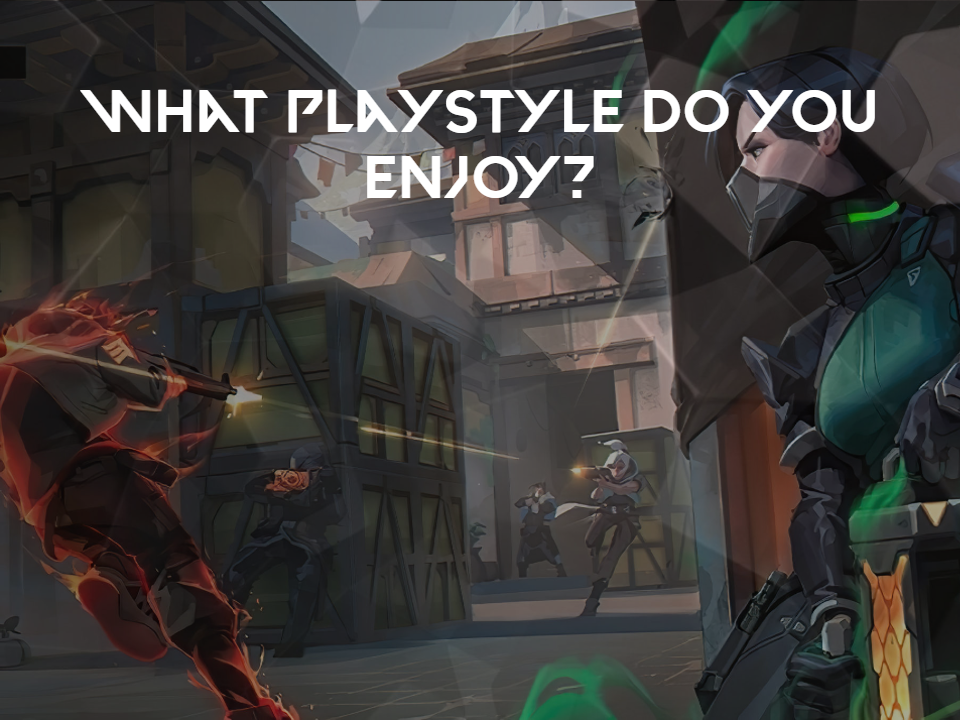
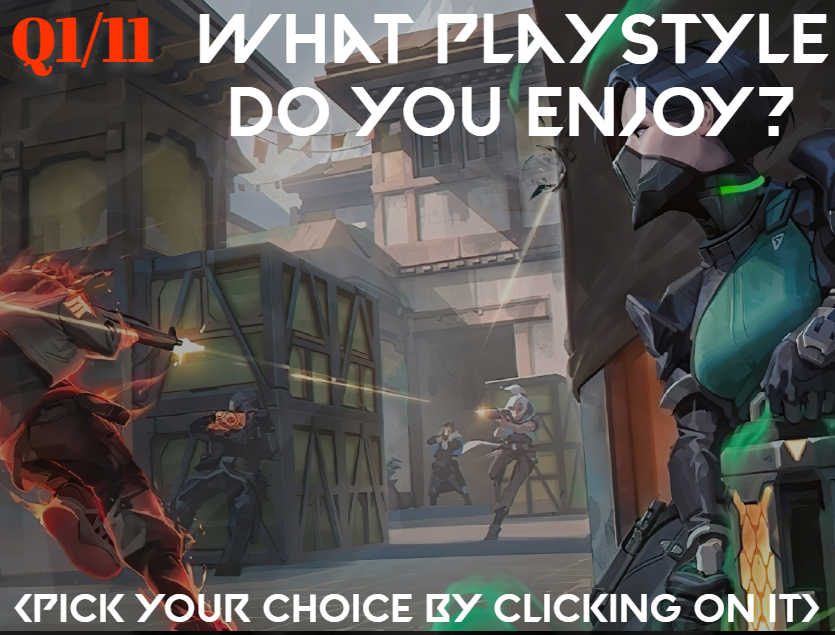
Created everything.

diff --git a/main.py b/main.py
@@ -5,6 +5,7 @@ from PIL import ImageTk, Image
 questionnumber = 0
 agentscore = 0
 
+
 #These are the scores for all the general questions
 choice1 = 1
 choice2 = 2
@@ -15,7 +16,7 @@ choice4 = 4
 #This is the main window - you can see the tk window tab at the top
 menuwindow = tk.Tk()
 menuwindow.geometry("835x635")
-
+menuwindow.overrideredirect(1)
 #TEMPLATE CODE
 #<------------------------>
 
@@ -27,13 +28,13 @@ menuwindow.geometry("835x635")
 #This is the menu screen canvas
 menuplatform = tk.Canvas(menuwindow, width=835, height=635)
 #This is the info page canvas
-infopageplatform = tk.Canvas(menuwindow, width=835, height=635)
+infopageplatform = tk.Canvas(menuwindow, width=835)
 #<---------->
 
-#Under this is all the button canvases
+
 #<---------->
 #This is the BEGIN button canvas
-beginbuttonplatform = tk.Canvas(menuwindow, width=50, height=50)
+beginbuttonplatform = tk.Canvas(menuwindow, highlightthickness=0)
 
 #<---------->
 
@@ -91,6 +92,8 @@ def questioncheck():
             tenthques()
         if questionnumber == 11:
             eleventhques()
+        if questionnumber == 12:
+            confirmation()
 
 def disclaimer():
     begin_button.destroy()
@@ -263,15 +266,14 @@ def eleventhques():
   
 #<------------------------> 
 
-
-
-  
+#THIS IS THE FINAL AGENT RESULTS - THESE ARE WHAT AGENT YOU WILL RECEIVE IN THE QUIZ.
 def closequiz():
     menuwindow.destroy()
 
 
 #<------------------------>
 
+  
 #FIRST QUESTION CODE
 #<------------------------>
 #BUTTON CODE
@@ -456,6 +458,104 @@ adaptingbtn = tk.Button(image= adaptingimg, command=choice4)
 
 
 
+#THIS IS THE FINAL AGENT RESULT FUNCTION
+#THIS IS THE CONFIRMATION PAGE, WHERE IT WILL ASK YOU IF YOU ARE READY TO PROCEED WITH RESULTS.
+def confirmation():
+  hideconfirm()
+  menuplatform.create_image(415, 315, image=confirmationimg)
+  confirmationbtn.place(x=125, y=380)
+#AGENT SCORE RESULTS
+def agentselect():
+  final()
+  retakequizbtn.place(x=125, y=420)
+  for score in range(agentscore):
+    if score == 11:
+      menuplatform.create_image(415, 315, image=astraimg)
+    if score == 12:
+      menuplatform.create_image(415, 315, image=cypherimg)
+    if score == 13:
+      menuplatform.create_image(415, 315, image=omenimg)
+    if score == 14:
+      menuplatform.create_image(415, 315, image=breachimg)
+    if score == 15:
+      menuplatform.create_image(415, 315, image=sageimg)
+    if score == 16:
+      menuplatform.create_image(415, 315, image=killjoyimg)
+    if score == 17:
+      menuplatform.create_image(415, 315, image=omenimg)
+    if score == 18:
+      menuplatform.create_image(415, 315, image=brimstoneimg)
+    if score == 19:
+      menuplatform.create_image(415, 315, image=cypherimg)
+    if score == 20:
+      menuplatform.create_image(415, 315, image=neonimg)
+    if score == 21:
+      menuplatform.create_image(415, 315, image=sovaimg)
+    if score == 22:
+      menuplatform.create_image(415, 315, image=neonimg)
+    if score == 23:
+      menuplatform.create_image(415, 315, image=fadeimg)
+    if score == 24:
+      menuplatform.create_image(415, 315, image=skyeimg)
+    if score == 25:
+      menuplatform.create_image(415, 315, image=chamberimg)
+    if score == 26:
+      menuplatform.create_image(415, 315, image=jettimg)
+    if score == 27:
+      menuplatform.create_image(415, 315, image=neonimg)
+    if score == 28:
+      menuplatform.create_image(415, 315, image=phoeniximg)
+    if score == 29:
+      menuplatform.create_image(415, 315, image=reynaimg)
+    if score == 30:
+      menuplatform.create_image(415, 315, image=neonimg)
+    if score == 31:
+      menuplatform.create_image(415, 315, image=skyeimg)
+    if score == 32:
+      menuplatform.create_image(415, 315, image=viperimg)
+    if score == 33:
+      menuplatform.create_image(415, 315, image=yoruimg)
+    if score == 34:
+      menuplatform.create_image(415, 315, image=razeimg)
+    if score == 35:
+      menuplatform.create_image(415, 315, image=astraimg)
+    if score == 36:
+      menuplatform.create_image(415, 315, image=kayoimg)
+#CONFIRMATION CODE
+  #THIS IS THE IMAGE DIRECTORIES AND BUTTON CODE FOR THE CONFIRMATION PAGE AND IT'S BUTTON
+confirmationimg = ImageTk.PhotoImage(Image.open("imagescreens/final result image/CONFIRMATION.png"))
+confirmationbtnimg = ImageTk.PhotoImage(Image.open("imagescreens/final result image/CONFIRMATION BUTTON.png"))
+confirmationbtn = tk.Button(image=confirmationbtnimg, command=agentselect)
+#ALL AGENT RESULT FILE DIRECTORIES
+#<------------------------>
+astraimg = ImageTk.PhotoImage(Image.open("agent results/ASTRA result.png"))
+breachimg = ImageTk.PhotoImage(Image.open("agent results/BREACH result.png"))
+brimstoneimg = ImageTk.PhotoImage(Image.open("agent results/BRIMSTONE result.png"))
+chamberimg = ImageTk.PhotoImage(Image.open("agent results/CHAMBER result.png"))
+cypherimg = ImageTk.PhotoImage(Image.open("agent results/CYPHER result.png"))
+fadeimg = ImageTk.PhotoImage(Image.open("agent results/FADE result.png"))
+jettimg = ImageTk.PhotoImage(Image.open("agent results/JETT result.png"))
+kayoimg = ImageTk.PhotoImage(Image.open("agent results/KAYO result.png"))
+killjoyimg = ImageTk.PhotoImage(Image.open("agent results/KILLJOY result.png"))
+neonimg = ImageTk.PhotoImage(Image.open("agent results/NEON result.png"))
+omenimg = ImageTk.PhotoImage(Image.open("agent results/OMEN result.png"))
+phoeniximg = ImageTk.PhotoImage(Image.open("agent results/PHOENIX result.png"))
+razeimg = ImageTk.PhotoImage(Image.open("agent results/RAZE result.png"))
+reynaimg = ImageTk.PhotoImage(Image.open("agent results/REYNA result.png"))
+sageimg = ImageTk.PhotoImage(Image.open("agent results/SAGE result.png"))
+skyeimg = ImageTk.PhotoImage(Image.open("agent results/SKYE result.png"))
+sovaimg = ImageTk.PhotoImage(Image.open("agent results/SOVA result.png"))
+viperimg = ImageTk.PhotoImage(Image.open("agent results/VIPER result.png"))
+yoruimg = ImageTk.PhotoImage(Image.open("agent results/YORU result.png"))
+#<------------------------>
+#This restarts the quiz
+def restart():
+  global questionnumber
+  questionnumber = 1
+  questioncheck()
+retakequizimg = ImageTk.PhotoImage(Image.open("buttonimages/overall/retake.png"))
+retakequizbtn = tk.Button(image=retakequizimg, command=restart)
+
 #MENU SCREEN IMAGE CODE
 #<--------------------->
 valorant_img = ImageTk.PhotoImage(
@@ -508,8 +608,12 @@ backbtnimg = ImageTk.PhotoImage(
 backbtn = tk.Button(image=backbtnimg, command=prevques)
 #<-------------------->
 
+#
+
 #ALL THESE FUNCTIONS HIDE ALL THE BUTTONS DEPENDING ON WHICH QUESTION
 def hideq1():
+    confirmationbtn.place(x=111125, y=400)
+    retakequizbtn.place(x=111125, y=380)
     newbtn.place(x=1115, y=175)
     okbtn.place(x=11457, y=175)
     decentbtn.place(x=1115, y=425)
@@ -590,5 +694,12 @@ def hideq10():
 def hideq11():
     overwatchbtn.place(x=11120, y=375)
     csgobtn.place(x=111465, y=150)
+    confirmationbtn.place(x=111125, y=380)
+def hideconfirm():
+    strategiesbtn.place(x=21150, y=175)
+    adaptingbtn.place(x=11250, y=375)
+def final():
+    backbtn.place(x=11320, y=560)
+    confirmationbtn.place(x=111125, y=380)
 print("The Quiz has Begun, a GUI should show up!")
 print(questionnumber)
